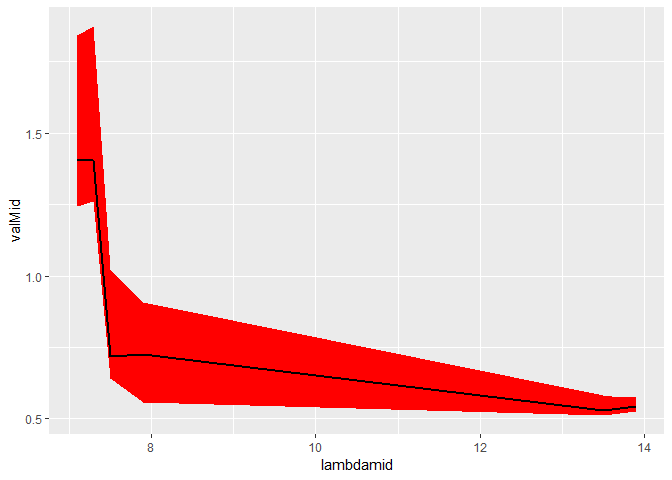
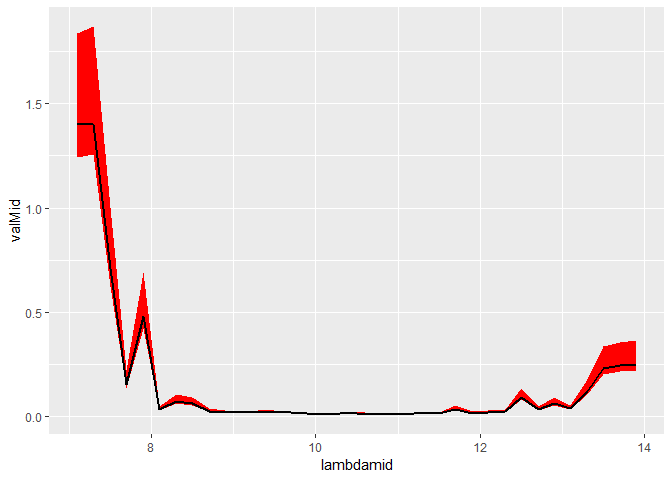
fig

diff --git a/tutorials/Band-calculation/README.md b/tutorials/Band-calculation/README.md
@@ -26,11 +26,7 @@ radDF <- as.data.frame(simData_radAtm)
 
 Band calculation trapezoidal approximation:
 
-$$\int_{\lambda=1}^{\lambda=n} d\lambda~L_\lambda R_\lambda\approx
-\sum_{i=1}^n \frac{1}{2} \Bigg[
-\Big[\frac{1}{2}(\lambda_{max_{i}}-\lambda_{min_{i}}) \Big]
-\times (L_{\lambda_{i}}R_{min_{i}} + L_{\lambda_{i}}R_{mid_{i}} + 
-L_{\lambda_{i}}R_{mid_{i}} + L_{\lambda_{i}}R_{max_{i}})\Bigg]$$
+$$\int_{\lambda=1}^{\lambda=n} d\lambda~L_\lambda R_\lambda\approx\sum_{i=1}^n \frac{1}{2} \Bigg[\Big[\frac{1}{2}(\lambda_{max_{i}}-\lambda_{min_{i}}) \Big]\times (L_{\lambda_{i}}R_{min_{i}} + L_{\lambda_{i}}R_{mid_{i}}+L_{\lambda_{i}}R_{mid_{i}} + L_{\lambda_{i}}R_{max_{i}})\Bigg]$$
 
 Define the real world observations. This should be a data frame which has information that can relate to the model world observations. Namely: pixels (x, y), brightness temperature (value), the image type (imgType) and DART image number that models its perspective (imageNo). This way, each model world camera is matched to the correct real world camera.
 
@@ -142,7 +138,6 @@ radAtmSpectral <- as.data.frame(simData_radAtm) %>%
 ```r
 radAtmBand <- getBandRadiance(spectralDF = radAtmSpectral, SRF = SRF)
 ggplot(radAtmSpectral %>% 
-         filter(value > 0.5) %>% 
          group_by(lambdamid, add = TRUE) %>% 
          summarise(valMin = quantile(value, 0.25),
                    valMid = quantile(value, 0.5), 
